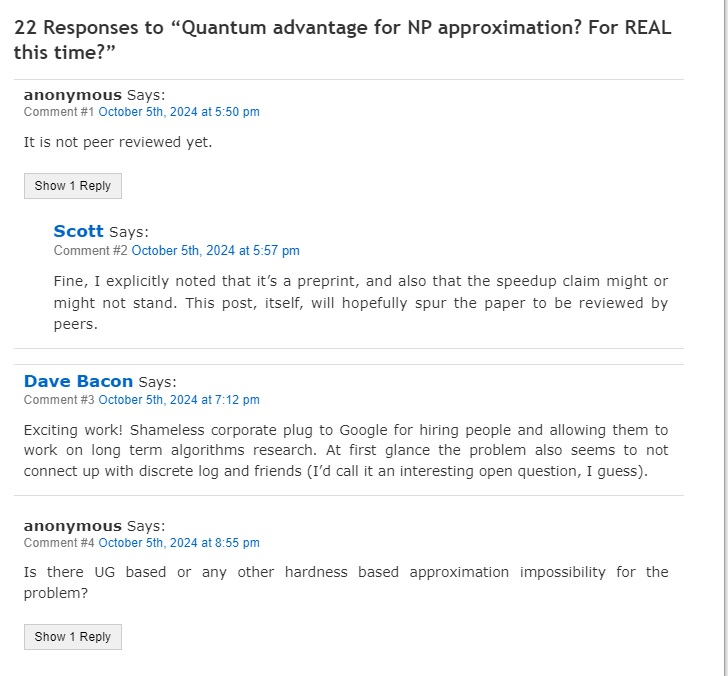
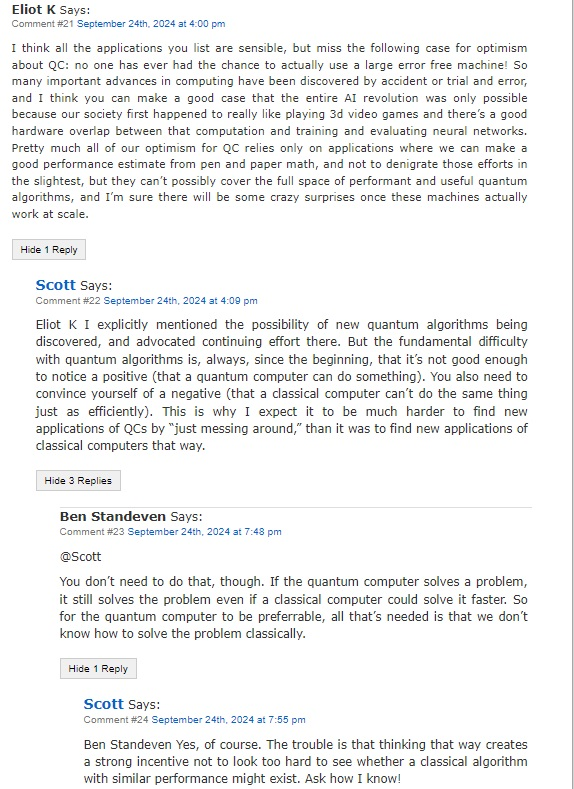
Fix small bugs

Changed region(s): [[0.0, 0.0, 0.9181, 0.9941], [0.9774, 0.0, 1.0, 1.0], [0.8885, 0.8388, 0.9181, 0.8698]]

diff --git a/Shtetl-comment-optimized/content.js b/Shtetl-comment-optimized/content.js
@@ -34,7 +34,7 @@
 
   function buildCommentTree(commentMap) {
     const rootComments = [];
-    const replyRegex = /^([^#]+)\s*#(\d+):\s*/;
+    const replyRegex = /^([^#]+)\s*#(\d+).*:\s*/;
 
     commentMap.forEach((comment) => {
       const contentElements = comment.element.querySelectorAll('p');
@@ -78,7 +78,7 @@ function renderCommentTree(comment, level = 0) {
 
     const toggleButton = document.createElement('button');
     toggleButton.className = 'toggle-replies';
-    toggleButton.textContent = `Show ${comment.replies.length} ${comment.replies.length === 1 ? 'Reply' : 'Replies'}`;
+    toggleButton.textContent = `Hide ${comment.replies.length} ${comment.replies.length === 1 ? 'Reply' : 'Replies'}`;
     commentElement.appendChild(toggleButton);
 
     comment.replies.forEach(reply => {
